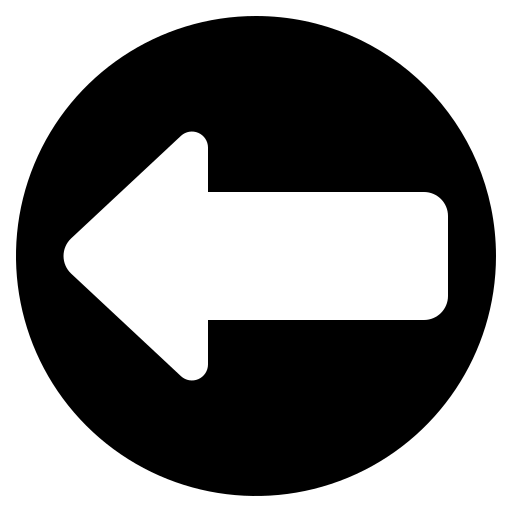
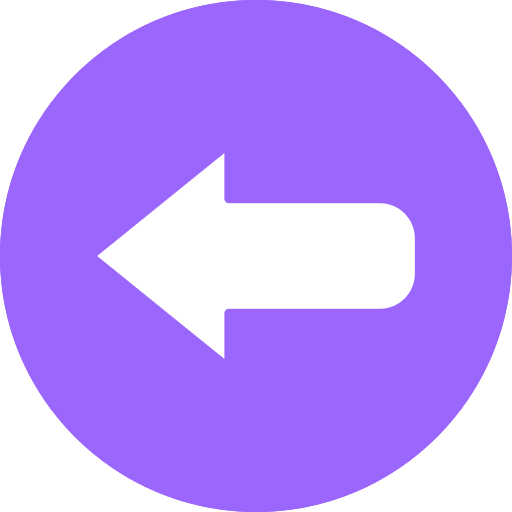
ajustes visuais

diff --git a/idFace/core/static/css/style.css b/idFace/core/static/css/style.css
@@ -1,4 +1,3 @@
-/*login*/
 *{
     margin:0;
     padding:0;
@@ -16,17 +15,20 @@ body{
 
 .container{
     width:95%;
-    max-width:1400px;
+    max-width:1450px;
     min-height:90vh;
     background:#fff;
-    border-radius:25px;
+    border-radius:30px;
     display:flex;
-    align-items: center;
+    overflow:hidden;
+    box-shadow:0 20px 60px rgba(0,0,0,.08);
 }
 
 .left-side{
-    width:65%;
-    padding:30px 50px;
+    width:45%;
+    padding:35px 60px;
+    display:flex;
+    flex-direction:column;
 }
 
 header{
@@ -38,6 +40,7 @@ header{
 header h1{
     color:#4b0f82;
     font-size:48px;
+    font-weight:800;
 }
 
 nav{
@@ -47,8 +50,13 @@ nav{
 
 nav a{
     text-decoration:none;
-    color:#333;
-    font-size:14px;
+    color:#555;
+    font-size:15px;
+    transition:.3s;
+}
+
+nav a:hover{
+    color:#4b0f82;
 }
 
 .active{
@@ -58,14 +66,23 @@ nav a{
 }
 
 .login-box{
-    margin-top:120px;
-    width:420px;
+    margin-top:60px;
+    width:100%;
+    max-width:460px;
+    background:rgba(255,255,255,.88);
+    backdrop-filter:blur(8px);
+    border:1px solid #ece4f8;
+    border-radius:30px;
+    padding:45px;
+    box-shadow:0 20px 40px rgba(75,15,130,.10);
 }
 
 .login-box h2{
-    font-size:72px;
+    font-size:58px;
     color:#4b0f82;
-    margin-bottom:40px;
+    line-height:1.1;
+    margin-bottom:35px;
+    font-weight:800;
 }
 
 .login-box input[type="text"],
@@ -73,66 +90,92 @@ nav a{
 .login-box input[type="email"],
 .login-box select{
     width:100%;
-    padding:15px;
+    padding:17px 22px;
     margin-bottom:18px;
-    border-radius:30px;
-    border:1px solid #b48dd8;
+    border-radius:40px;
+    border:1px solid #d9c7ef;
+    background:#fff;
     font-size:15px;
+    transition:.3s;
+    outline:none;
+}
+
+.login-box input:focus,
+.login-box select:focus{
+    border-color:#4b0f82;
+    box-shadow:0 0 0 4px rgba(75,15,130,.10);
 }
 
 .options{
     display:flex;
     justify-content:space-between;
-    margin-bottom:35px;
-    font-size:12px;
+    align-items:center;
+    margin-bottom:30px;
+    font-size:13px;
 }
 
 .options a{
+    color:#666;
     text-decoration:none;
-    color:#777;
+}
+
+.options a:hover{
+    color:#4b0f82;
 }
 
 button{
     width:100%;
-    padding:15px;
+    padding:17px;
     border:none;
-    border-radius:30px;
-    background:#4b0f82;
-    color:white;
+    border-radius:40px;
+    background:linear-gradient(135deg,#4b0f82,#6d2db6);
+    color:#fff;
     font-size:16px;
+    font-weight:bold;
     cursor:pointer;
+    transition:.3s;
 }
 
 button:hover{
-    opacity:0.9;
+    transform:translateY(-2px);
+    box-shadow:0 10px 25px rgba(75,15,130,.30);
 }
 
 .login-box p{
-    margin-top:20px;
+    margin-top:25px;
+    text-align:center;
     font-size:14px;
+    color:#666;
 }
 
 .login-box p a{
     text-decoration:none;
     color:#4b0f82;
+    font-weight:bold;
 }
 
+.right-side{
+    width:55%;
+    display:flex;
+    justify-content:center;
+    align-items:center;
+    
+}
 
 .right-side img{
     width:90%;
-    height:90%;
-    border-radius: 15px;
-    margin-left: 100px;
+    max-width:760px;
+    height:auto;
 }
-
-/*cadastro visitante*/
 
 .back-button{
     display:flex;
-    gap:10px;
+    align-items:center;
+    gap:12px;
+    margin-bottom:20px;
 }
 
 .back-button img{
-    width:50px;
-    height:50px;
+    width:42px;
+    height:42px;
 }

diff --git a/idFace/core/templates/cadastro_about.html b/idFace/core/templates/cadastro_about.html
@@ -6,7 +6,7 @@
     <meta name="viewport" content="width=device-width, initial-scale=1.0">
     <title>Vision Tech - Cadastro de Perfil</title>
 
-    <link rel="stylesheet" href="{% static 'css/style.css' %}">
+    <link rel="stylesheet" href="{% static 'css/style.css' %}?v=10">
 </head>
 <body>
 
@@ -18,10 +18,11 @@
                 <h1>SIRA</h1>
 
                 <nav>
-                    <a href="#">HOME</a>
-                    <a href="#">ABOUT US</a>
-                    <a href="#" class="active">CONTACT</a>
-                    <a href="{% url 'login' %}">LOG IN</a>
+                    <nav>
+                    <a href="#">Home</a>
+                    <a href="#">Quem Somos</a>
+                    <a href="#">Contatos</a>
+                </nav>
                 </nav>
             </header>
 
@@ -59,9 +60,9 @@
 
         <div class="right-side">
             <img
-                src="{% static 'img/estudante.png' %}"
-                alt="Estudante"
-            >
+                src="{% static 'img/foto-visãocomputacional.jpg' %}"
+                alt="ilustração de um menino com reconhecimento facial"
+                class="img-visao">
         </div>
 
     </div>

diff --git a/idFace/core/templates/cadastro_aluno.html b/idFace/core/templates/cadastro_aluno.html
@@ -7,7 +7,7 @@
     <title>SIRA - Cadastro de Aluno</title>
 
 
-    <link rel="stylesheet" href="{% static 'css/style.css' %}">
+    <link rel="stylesheet" href="{% static 'css/style.css' %}?v=10">
 </head>
 <body>
 
@@ -58,10 +58,10 @@
 
         <div class="right-side">
 
-            <img
-                src="{% static 'img/estudante.png' %}"
-                alt="Estudante"
-            >
+        <img
+                src="{% static 'img/foto-visãocomputacional.jpg' %}"
+                alt="ilustração de um menino com reconhecimento facial"
+                class="img-visao">
 
         </div>
 

diff --git a/idFace/core/templates/cadastro_visitante.html b/idFace/core/templates/cadastro_visitante.html
@@ -7,7 +7,7 @@
     <title>SIRA - Cadastro de Visitante</title>
 
 
-    <link rel="stylesheet" href="{% static 'css/style.css' %}">
+    <link rel="stylesheet" href="{% static 'css/style.css' %}?v=10">
 </head>
 <body>
 
@@ -59,9 +59,9 @@
         <div class="right-side">
 
             <img
-                src="{% static 'img/estudante.png' %}"
-                alt="Estudante"
-            >
+                src="{% static 'img/foto-visãocomputacional.jpg' %}"
+                alt="ilustração de um menino com reconhecimento facial"
+                class="img-visao">
 
         </div>
 

diff --git a/idFace/core/urls.py b/idFace/core/urls.py
@@ -19,3 +19,4 @@ urlpatterns = [
     path('cadastro-aluno/', cadastro_aluno, name='cadastro_aluno'),
     path('cadastro-about/', cadastro_about, name='cadastro_about'),
 ]
+